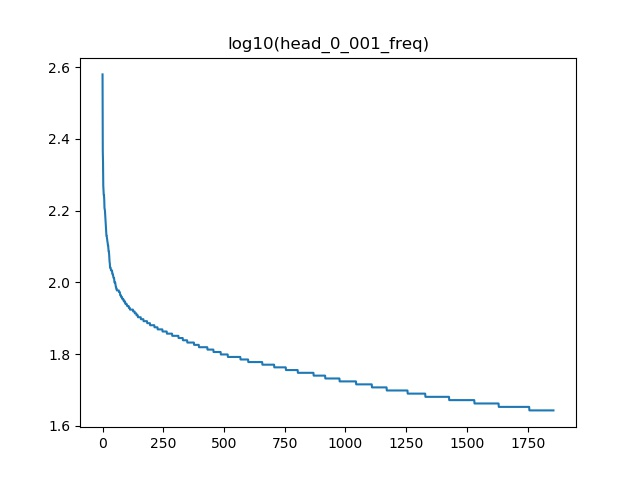
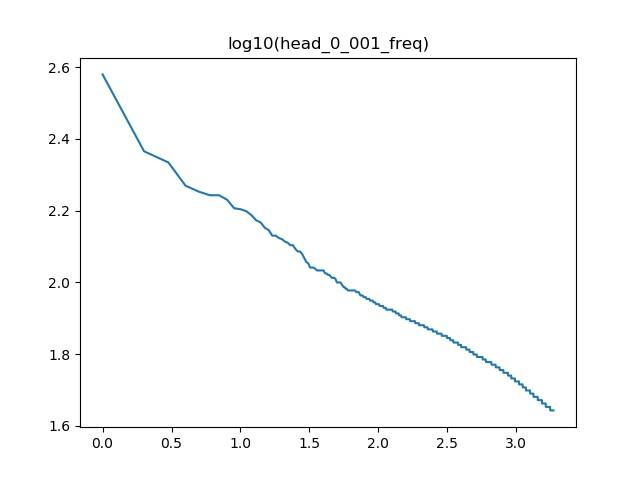
增加了dataloader

diff --git a/preprocess.py b/preprocess.py
@@ -1,13 +1,17 @@
 import os
-import numpy as np
-from config import Dir, rawFile, encode, SEP 
+
+from config import Dir, rawFile, encode, SEP, cookedFile
 
 
-def data_purge(info: str) -> str:
-    """ 数据清洗：去除停用词；判断该info是不是度量值 """
-    if info[:3] == "<a>":
-        info = info[3: -4]
-    return info
+def data_pruge(r, t):
+    """
+    数据清洗，停用词、度量值、法律条款处理
+    """
+    if t[:3] == "<a>":
+        t = t[3:-4]
+    if r in rels:
+        t = rels[r]
+    return t
 
 
 def convert_kg():
@@ -27,13 +31,14 @@ def convert_kg():
     with open(os.path.join(Dir, "triples_index.txt"), "w") as f:
         for line in file.readlines():
             (h, r, t) = line.rstrip().split(SEP)
+            # 数据清洗：去除DESC、停用词；度量值、法律条款处理
             if r == "DESC":
                 continue
-            t = data_purge(t)
+            t = data_pruge(r, t)
             if len(t) == 0:
                 print(line)
                 continue
-
+            # 映射为数字
             if h not in entity_id2index:
                 entity_id2index[h] = entity_cnt
                 entity_cnt += 1
@@ -44,13 +49,18 @@ def convert_kg():
                 entity_id2index[t] = entity_cnt
                 entity_cnt += 1
 
-            f.write(
-                f"{entity_id2index[h]}\t{relation_id2index[r]}\t{entity_id2index[t]}\n"
-            )
+            triple = f"{entity_id2index[h]}\t{relation_id2index[r]}\t{entity_id2index[t]}\n"
+            f.write(triple)
         print("triples_index Done.")
         print(f"number of entities: {entity_cnt}")
         print(f"number of relations: {relation_cnt}")
     file.close()
+    
+    # 记录entity和relation总数，在产生neg数据时有用
+    with open("note.log", "w") as f:
+        info = f"total_entity\t{entity_cnt}\ntotal_relation\t{relation_cnt}"
+        print(f"'{info}' has been writen to note.log")
+        f.write(info)
     
     # index_entity
     filename = os.path.join(Dir, "index_entity.txt")
@@ -65,5 +75,41 @@ def convert_kg():
     print("index_relation done.")
 
 
+def split_train_val_set(file: str, val_ratio=0.8):
+    import numpy as np
+
+    print(f"Loading {file}")
+    tps = np.loadtxt(file, dtype=np.int)
+    print("Shuffling...")
+    np.random.shuffle(tps)
+
+    path, filename = os.path.split(file)
+    num = int(len(tps) * val_ratio)
+    
+    print("Save to train data")
+    with open(os.path.join(path, "train_" + filename), "w") as f:
+        for i in range(num):
+            f.write(f"{tps[i][0]}\t{tps[i][1]}\t{tps[i][2]}\n")
+    
+    print("Save to val data")
+    with open(os.path.join(path, "val_" + filename), "w") as f:
+        for i in range(num, len(tps)):
+            f.write(f"{tps[i][0]}\t{tps[i][1]}\t{tps[i][2]}\n")
+
+
 if __name__ == "__main__":
+    rels = {}   # 如果不出现num_rels，定义rels可以防止convert_kg出现错误
+    # 度量值 relation-tail 聚类
+    if os.path.exists("num_rels.txt"):
+        print("Loading numeric relations")
+        with open("num_rels.txt", encoding=encode) as f:
+            rels = f.read().split("\n")[:-1]
+            rels = list(map(lambda x: x.split("\t"), rels))
+            rels = dict(rels)   # 将二元组转化为字典
+    # 法律条款信息处理
+    
+    # make KG
     convert_kg()
+
+    # make train and validate set
+    split_train_val_set(cookedFile)

diff --git a/data_loader.py b/data_loader.py
@@ -1,5 +1,54 @@
+import random
+from copy import deepcopy
 import numpy as np
 
+from model.config import LongTensor
+from .config import SEP
 
-def load():
-    pass
+
+def corrupt_triple(raw_batch: list, entityTotal: int):
+    # repalce the head or tail with random function
+    negs = deepcopy(raw_batch)
+    if random.random() < 0.5:
+        # replace the head
+        while True:
+            new_head = [random.randint(0, entityTotal - 1) for i in range(len(negs[0]))]
+            if new_head != negs[0]:
+                break
+        negs[0] = new_head
+    else:
+        # replace the tail
+        while True:
+            new_tail = [random.randint(0, entityTotal - 1) for i in range(len(negs[2]))]
+            if new_tail != negs[2]:
+                break
+        negs[2] = new_tail
+    return negs
+
+
+def load_batch_triple(filename: str, batch_size: int) -> tuple:
+    """
+    由于数据量太大，只好使用generator节约内存
+    返回结果形如：(((ph),(pr),(pt)), ((nh),(nr),(nt)))
+    """
+    f = open(filename)
+    toInt = lambda x: int(x)
+    with open("note.log") as note:
+        ent_cnt, _ = note.readlines()
+        ent_cnt = int(ent_cnt.strip("\n").split(SEP)[1])
+
+    pos = [[], [], []]
+    for line in f:
+        tps = line.rstrip("\n").split(SEP)
+        h, r, t = tuple(map(toInt, tps))
+        pos[0].append(h)
+        pos[1].append(r)
+        pos[2].append(t)
+        if len(pos[0]) == batch_size:
+            negs = corrupt_triple(pos, ent_cnt)
+            yield LongTensor(pos), LongTensor(negs)
+            pos = [[], [], []]
+    if len(pos[0]) != 0:
+        negs = corrupt_triple(pos, ent_cnt)
+        yield LongTensor(pos), LongTensor(negs)
+    f.close()

diff --git a/have_a_look.py b/have_a_look.py
@@ -1,5 +1,6 @@
 import re
 import os
+import numpy as np
 from config import Dir, rawFile, encode, SEP
 
 """
@@ -88,17 +89,20 @@ def count_item():
         tails = list(map(func, tails))
 
         print("Drawing...")
-        plt.plot(heads)
+        x = np.log10(np.arange(1, len(heads) + 1, 1))
+        plt.plot(x, heads)
         plt.title("log10(head_0_001_freq)")
         plt.savefig("top_0_001_freq_head.jpg")
         plt.cla()
 
-        plt.plot(relations)
+        x = np.log10(np.arange(1, len(relations) + 1, 1))
+        plt.plot(x, relations)
         plt.title("log10(rel_0_001_freq)")
         plt.savefig("top_0_001_freq_rel.jpg")
         plt.cla()
 
-        plt.plot(tails)
+        x = np.log10(np.arange(1, len(tails) + 1, 1))
+        plt.plot(x, tails)
         plt.title("log10(tail_0_001_freq)")
         plt.savefig("top_0_001_freq_tail.jpg")
 
@@ -155,8 +159,19 @@ def numeric_relations():
     print("Write done.")
 
 
+def legislation_relations():
+    """ 找出和法律条款有关的数据 """
+    with open(rawFile, encoding=encode) as f:
+        for line in f.readlines():
+            (_, r, t) = line.strip().split(SEP)
+            if r == "DESC":
+                continue
+    pass
+
+
 if __name__ == "__main__":
     # count_h_r_t()
-    # count_item()
+    count_item()
     # which_is_complex()
-    numeric_relations()
+    # numeric_relations()
+    # legislation_relations()

diff --git a/model/TransE.py b/model/TransE.py
@@ -1,8 +1,9 @@
 import torch
 import torch.nn as nn
 import torch.nn.functional as F
+import torch.optim as optim
 
-from ..config import embed_dim, FloatTensor
+from .config import FloatTensor
 
 
 class TransE(nn.Module):
@@ -29,3 +30,14 @@ class TransE(nn.Module):
         pos = torch.sum((ph_e + pr_e - pt_e)**2, 1)
         neg = torch.sum((nh_e + nr_e - nt_e)**2, 1)
         return pos, neg
+
+
+def train(model: nn.Module, train_loader, lr, epochs):
+    #
+    optimizer = optim.Adam(model.parameters(), lr=lr)
+
+    for epoch in range(epochs):
+        for batch in train_loader():
+            ph, pr, pt, nh, nr, nt = batch
+            pos, neg = model(ph, pr, pt, nh, nr, nt)
+            

diff --git a/config.py b/config.py
@@ -2,8 +2,8 @@ import os
 
 # 文件
 Dir = "D:\\data\\KG"
-rawFilename = "triples.txt"  # "triples.txt"
-rawFile = os.path.join(Dir, rawFilename)
+rawFile = os.path.join(Dir, "triples.txt")
+cookedFile = os.path.join(Dir, "triples_index.txt")
 
 encode = "utf-8"
 
@@ -11,15 +11,3 @@ encode = "utf-8"
 SEP = "\t"
 ## 停用词
 stopwords = ["<a>", "</a>", "\n"]
-
-## 复杂语义关系
-_relation = ["DESC", "酒店地址"]
-
-# 嵌入维数
-embed_dim = 4
-
-# CUDA
-import torch
-CUDA = False # torch.cuda.is_available()
-FloatTensor = torch.cuda.FloatTensor if CUDA else torch.FloatTensor
-LongTensor = torch.cuda.FloatTensor if CUDA else torch.FloatTensor

diff --git a/model/config.py b/model/config.py
@@ -1,0 +1,16 @@
+import torch
+
+
+embed_dim = 4   # 嵌入维数
+lr = 1e-3       # 学习率
+
+
+# CUDA
+CUDA = False # torch.cuda.is_available()
+
+if CUDA:
+    FloatTensor = torch.cuda.FloatTensor
+    LongTensor = torch.cuda.LongTensor
+else:
+    FloatTensor = torch.FloatTensor
+    LongTensor = torch.LongTensor

diff --git a/model/TransH.py b/model/TransH.py
@@ -2,7 +2,7 @@ import torch
 import torch.nn as nn
 import torch.nn.functional as F
 
-from ..config import FloatTensor
+from .config import FloatTensor
 
 
 class TransH(nn.Module):

diff --git a/README.md b/README.md
@@ -2,8 +2,10 @@
 
 ### 任务
 给定知识图谱的全部三元组，对其中的实体进行embedding
+
 ### 输入
 整个知识图谱
+
 ### 输出
 每一个实体一个向量。要求：
 * 应可用于相似实体寻找
@@ -91,11 +93,18 @@
 
 有了“度量关系”，就可以将包含“度量关系”的tail替换成为统一的标记。这样做就能大大提高实体出现的频率，对网络训练应该是起正向作用。
 
-根据上述的想法，最终筛选出relation有`55276`个，包含数字的tail一共有`2029819`个。为了防止过拟合，不会将所有的tai全部替换，而是根据 __"二八法则"__，按照频率降序依次替换relation对应的tail，直到替换掉的tail数量超过了`80%`。
+根据上述的想法，最终筛选出relation有`55276`个，包含数字的tail一共有`2029819`个。为了防止过拟合，不会将所有的tai全部替换，而是根据 __"二八法则"__（根据实体出现频率画图可知实体的数量分布大致符合幂律分布），按照频率降序依次替换relation对应的tail，直到替换掉的tail数量超过了`80%`。
 
 最终的结果：top-122的relation指向了超过`80%`的含数字的tail。
 
 不过就这么直接把top-122的都替换也是不妥的，毕竟 __这些relation不是都指向度量值啊__！不过好在`122`已经在体力可接受范围内了，可以手动筛选符合条件的relation。由于筛选过程会损失一些tail数量，因此之前的`80%`换成更高的值会更加合适。该部分的结果记录在`num_rels.txt`中。
+
+### 4.法律信息
+可以发现在出现频率最高的head中，前几项都是法律条款，就像下面的这种：
+
+    "保险代理机构管理规定（法律）"    "第一百四十九条"  "第一百四十九条 本规定中的有关期限，除以年、月表示的以外，均以工作日计算，不含法定节假日。"
+
+这些法律条款字数长（长达千字），且出现频繁（有15万以上的三元组符合形如“第xxx条”的模式）。类似的，这样的数据也是不适合训练Embedding的。
 
 ---
 ## 数据清洗
@@ -103,6 +112,7 @@
 1. 剔除类似`<a>`或`</a>`的停用词
 2. relation为`DESC`的tail替换为`<DESC>`。或者干脆去除该三元组
 3. 时间、地点等度量值的处理
+4. 法律条款的处理
 
 当然这些数据还有一些问题，比如下面的数据：
 ```
